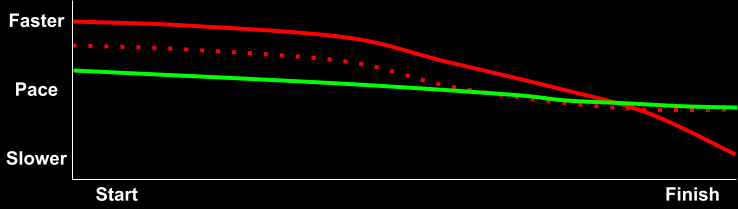
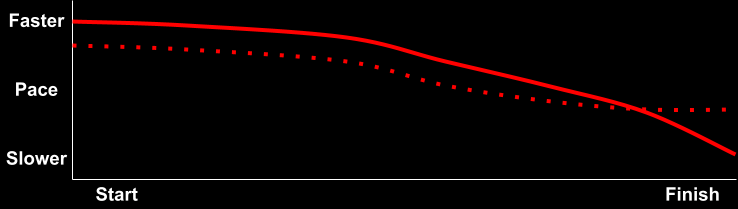
Fix red line chart image and update Hardrock link to local copy
- Replace gl-chart-6.png with correct red line strategy chart
- Point Hardrock 100 link to migrated local post instead of Medium

Changed region(s): [[0.0935, 0.3158, 1.0, 0.5455]]

diff --git a/content/posts/below-the-green-line.md b/content/posts/below-the-green-line.md
@@ -95,4 +95,4 @@ A final word about fully leveraging green line racing involves aid stations. Bec
 
 How do I estimate the finish time and pacing strategy, especially when the race isn't flat and controlled? Stay tuned for [Part 3: Estimating the Green Line](/posts/estimating-the-green-line/) where I'll detail my process.
 
-*See also: [Solving the Hardrock 100](https://medium.com/@thenickcoury/solving-the-hardrock-100-1dc96974155e) on Medium.*
+*See also: [Solving the Hardrock 100](/posts/solving-the-hardrock-100/)*
